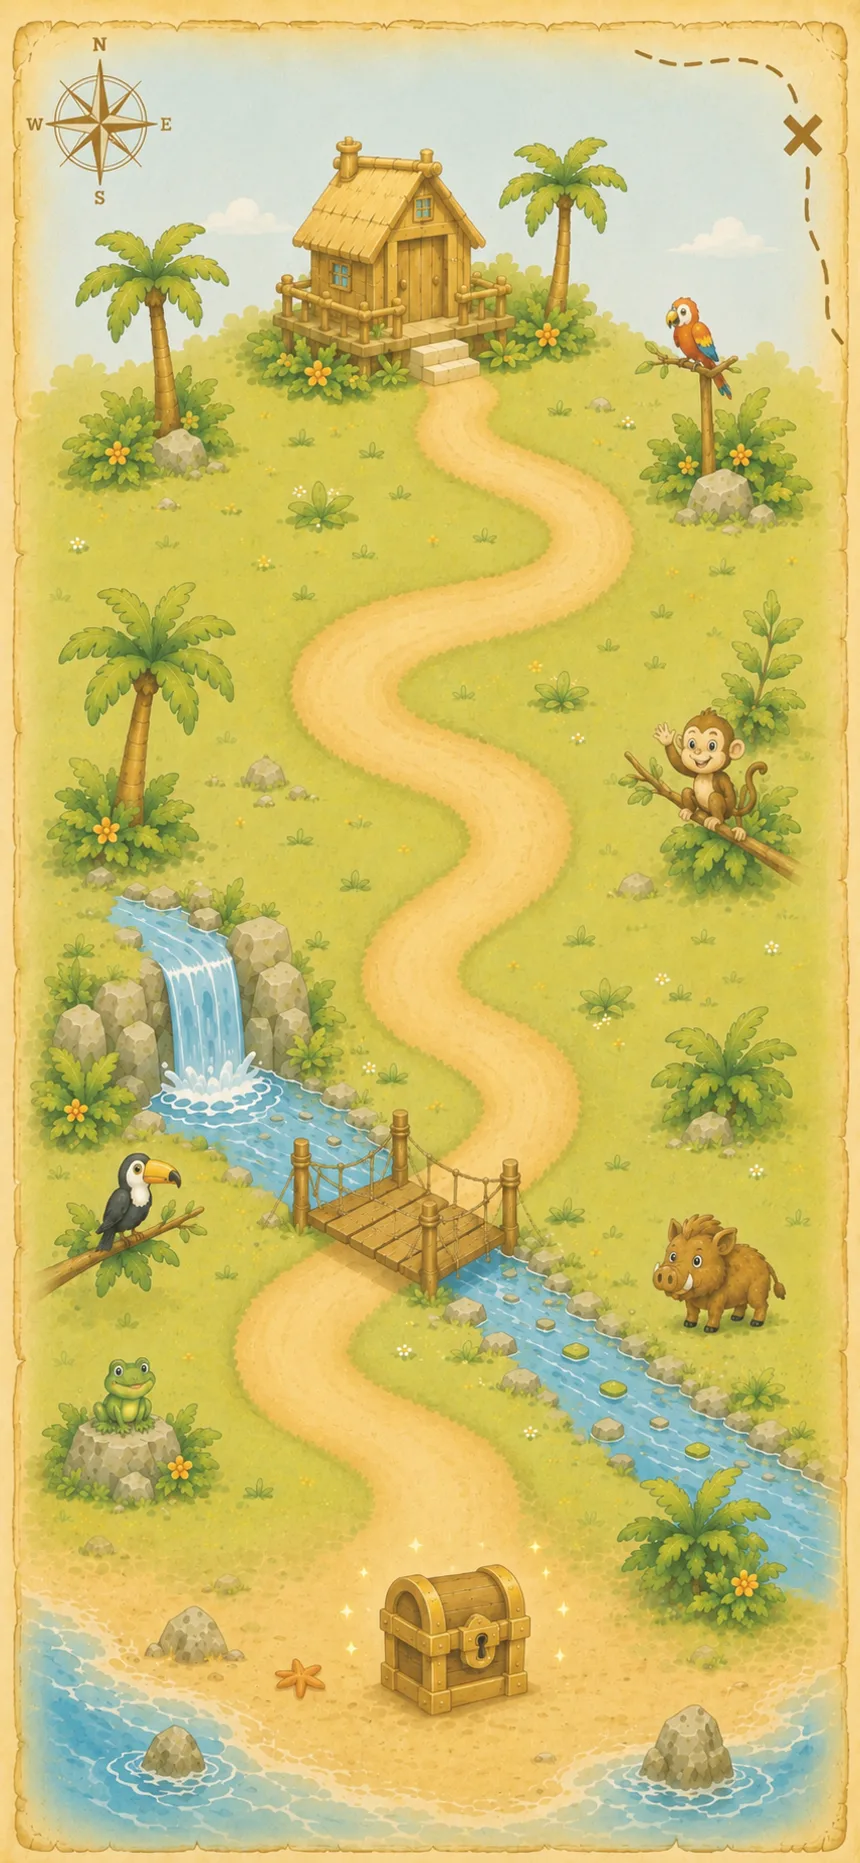
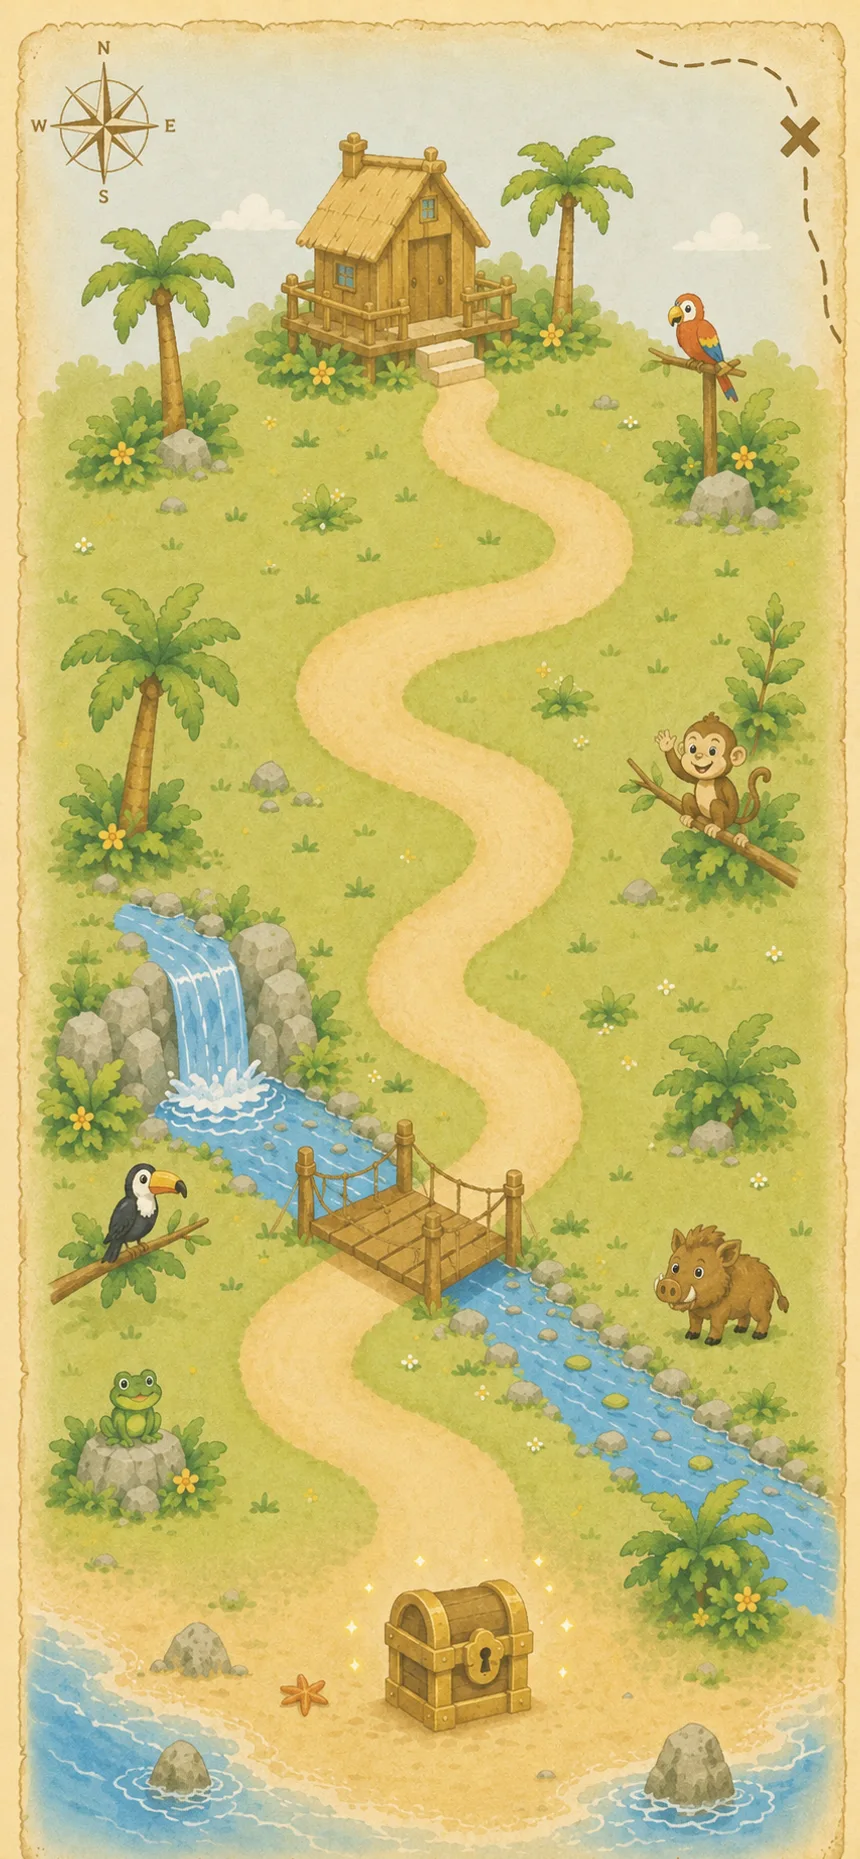
feat: 긴 지도 v9 수채화 원화 교체 (#100)
* fix: 모험지도 발자국 길 이탈 수정 — v5 원화에서 모래길 중심선 자동 추출로 경로 재보정

- 짧은/긴 지도 PATH를 원화 색 분류 스캔(모래색 픽셀 행별 추적)으로 재추출
- 짧은 지도 17점 → 46점, 긴 지도 21점 → 68점 (S커브·다리 통과 정밀 반영)
- 다리 구간은 목재 데크라 색 추출이 안 되어 수동 보간

Claude-Session: https://claude.ai/code/session_018maNuYqDfFyRSe9uKpZhPR

* feat: 우측 상단 원형 뱃지 버튼 3종 세로 배치 (엄마용-아이전환-아바타)

- 사용자 신규 원화 4종 탑재: 엄마용(엄마 얼굴)·아이전환(남매)·내아바타(초록 실루엣)·성장캐릭터(새싹)
- 엄마용·아이전환 뱃지 그림 v2로 교체
- 내 아바타/성장캐릭터 토글: 좌측 하단 나무 팻말 → 우측 상단 3번째 원형 뱃지(52px)로 이동
- 배경 꾸미기 장착 시 크림 캡슐 분기 제거 (뱃지가 헤더 영역이라 불필요)
- 원본 4장 art-src/ 보관 + README 갱신, vite build 검증

Claude-Session: https://claude.ai/code/session_018maNuYqDfFyRSe9uKpZhPR

* feat: 모험지도 학원 건물 v6 정글 세트 교체 (나무집·돌아치·텐트·티키오두막)

- 사용자 신규 원화 4종 탑재: trim + 높이 220 + 채도 1.08 + webp q86
- 텐트·티키는 원화의 흰 원을 투명 펀칭(중심 flood-fill) — 이모지 뒤배치 방식 유지
- 구멍 중심·지름 실측(투명 블롭 스캔)으로 cx/cy/d 갱신, k는 구멍 표시 크기 통일 기준 재계산
- 구 건물 webp 4종 삭제(미참조 확인), 원본은 art-src/ 보관 + README 갱신

Claude-Session: https://claude.ai/code/session_018maNuYqDfFyRSe9uKpZhPR

* polish: 모험 홈 무게중심 미세조정 6종 (사용자 픽셀 단위 가이드)

- 캐릭터·펫 컨테이너 20px 위로 (translateY 6→-14) — 하단 시트 눌림감 해소
- 헤드라인 문구 아래 20px·우측 7px (relative, 레이아웃 불변) + 나침반 이모지 간격 축소
- 우측 뱃지 3번째(아바타 토글) marginTop 2px — 간격 착시 보정
- '곧 부화!' 말풍선 알쪽으로 11px 하강 + 4px 우측 — 알과 한 덩어리로
- 시트 핸들바 아래 여백 14→7px — 날짜바 소폭 상승
- 모험 탭 초록 채움 8% 소프트 (#A5BB60→#ACC06D)

Claude-Session: https://claude.ai/code/session_018maNuYqDfFyRSe9uKpZhPR

* polish: 모험지도 라벨·발자국·진행도 개선 (사용자 가이드 8종)

- 이름표 2줄 통일: 1줄 학원명 / 2줄 🕘 시간(진하게) — 전 라벨 동일 규칙
[…]

diff --git a/src/components/AdventureMap.jsx b/src/components/AdventureMap.jsx
@@ -58,28 +58,28 @@ const mkPointAt = (PATH, ASPECT) => {
 const MAP_LONG = {
   bg: "assets/adventure-map.webp",
   ar: "853 / 1844",
-  chest: [52, 88],
-  cdy: 6,           // 진행도 칩(🔒 n/N)을 상자 아래로 내리는 오프셋 (지도 높이 % — 상자 안 가리게)
+  chest: [52.5, 89],
+  cdy: 5.5,         // 진행도 칩(🔒 n/N)을 상자 아래로 내리는 오프셋 (지도 높이 % — 상자 안 가리게)
   yr: 1844 / 853,
   bw: 26, fs: 24,   // 건물 표시 폭(%)·이모지 크기 (사용자 조정: 소폭 축소)
   fpk: 64,          // 발자국 개수 (경로 등간격)
-  // 학원 건물 고정 배치 좌표 (길 '옆' 잔디, 좌우 번갈아)
+  // 학원 건물 고정 배치 좌표 (길 '옆' 잔디) — v9 지형: ①앵무새 우상 ②원숭이 우측 ③투칸 좌측 ④멧돼지 우측
   spots: {
-    3: [[78,30],[71,45],[33,76]],
-    4: [[78,30],[71,45],[20,63],[33,76]],
+    3: [[80,30],[71,45],[20,63]],
+    4: [[80,30],[71,45],[20,63],[80,67]],
   },
-  // v8 수채화 원화 모래길 중심선 자동 추출(색 분류 스캔) 좌표 — 다리 구간은 목재라 수동 보간
+  // v9 수채화 원화 모래길 중심선 자동 추출(색 분류 스캔) 좌표 — 다리 구간은 목재라 수동 보간
   pointAt: mkPointAt([
-    [50.5,19.5],[52,20.9],[54,21.8],[53,22.8],[50.5,23.6],[50.5,24.4],[52.5,25.2],[55.5,26],
-    [58.5,26.7],[61.5,27.4],[64,28.2],[65.5,29.2],[65.5,30.2],[63,31],[59,31.8],[55,32.5],
-    [51.5,33.2],[49.5,34],[47.5,34.9],[45.5,35.8],[44.5,36.5],[41.5,37.2],[38.5,38],[37.8,38.9],
-    [39.5,39.8],[41.5,40.5],[44,41.2],[46.5,41.8],[49,42.4],[52,43.1],[54.5,43.7],[56.5,44.4],
-    [59,45],[61.5,45.6],[63.2,46.3],[62.5,47.1],[60.5,47.9],[58.5,48.6],[56.5,49.3],[54.5,50],
-    [52.5,50.7],[51,51.5],[49.5,52.3],[49.5,53.2],[50,54.1],[50.5,55],[51.5,55.9],[53.5,56.6],
-    [56,57.3],[58.5,58],[60.5,58.8],[62,59.6],[63,60.5],[62.5,61.5],[61,62.3],[58,63.2],
-    [54,64.2],[50,65.2],[46,66.2],[42,67],[39,67.8],[37.5,68.8],[36.7,69.8],[36.5,70.8],
-    [37,71.8],[38.5,72.8],[40.5,73.7],[43,74.6],[45.5,75.5],[48,76.3],[50.5,77.1],[52,77.9],
-    [53,78.8],[54,79.7],[54.8,80.7],[55.2,81.7],[55,82.7],[54.5,83.7],[53.5,84.6],
+    [52,19.8],[53.5,21],[54,22],[53,23],[52.9,24.1],[54,25],[56.5,25.8],[59,26.5],
+    [61.5,27.2],[64.5,28],[66.8,28.8],[68.5,29.7],[68.6,30.8],[67.5,31.8],[65,32.7],[61,33.5],
+    [57,34.2],[53,34.9],[49,35.7],[45.5,36.4],[42.5,37.1],[41,38],[41.3,39],[43,39.9],
+    [45.5,40.7],[48.5,41.4],[51.5,42.1],[54.5,42.9],[57.5,43.7],[59.5,44.5],[60.8,45.4],[60.7,46.4],
+    [59.8,47.4],[58,48.3],[56,49.2],[53.5,50.1],[51.5,51],[49.8,51.9],[48.5,52.9],[48.3,54],
+    [49.5,54.9],[51.5,55.8],[53.5,56.6],[56,57.4],[58.5,58.3],[60.5,59.2],[61.8,60.1],[62,61.1],
+    [61,62.1],[59,63],[56,64],[52.5,65],[49,66],[45.5,67],[42,68],[39.5,68.9],
+    [38,69.9],[37,70.9],[35.8,71.9],[34.8,72.9],[34.4,74],[35.2,75],[36.8,76],[39,76.9],
+    [41.5,77.8],[44,78.6],[46.5,79.4],[48.8,80.2],[50.5,81.1],[51.8,82.1],[52.3,83.2],[52.3,84.4],
+    [52.2,85.6],
   ], 1844 / 853),
 };
 // 짧은 지도 v2 (972×1619, 3:5 양피지) — 학원 0~2곳용, 무대 배경과 비슷한 체감 높이

diff --git a/art-src/README.md b/art-src/README.md
@@ -37,7 +37,8 @@ ChatGPT로 생성한 **가공 전 원본 이미지**를 보관한다. 배포(dis
 | map-bld-tent.png | 지도 학원 건물 v6-3 (수채화풍, 구) | (교체됨) |
 | map-bld-tikihut.png | 지도 학원 건물 v6-4 (수채화풍, 구) | (교체됨) |
 | adventure-map-v6-src.png | 긴 지도 v7 크리스프 카툰 (구) | (교체됨) |
-| adventure-map-v8-src.png | 긴 지도 v8 수채화 (852×1846, PATH 재추출) | adventure-map.webp |
+| adventure-map-v8-src.png | 긴 지도 v8 수채화 (구) | (교체됨) |
+| adventure-map-v9-src.png | 긴 지도 v9 수채화 (853×1844, 짧은 v8과 한 세트, PATH 재추출) | adventure-map.webp |
 | adventure-map-short-v6-src.png | 짧은 지도 v7 크리스프 카툰 (구) | (교체됨) |
 | adventure-map-short-v8-src.png | 짧은 지도 v8 수채화 (951×1654, 긴 지도 v8과 한 세트, PATH 재추출) | adventure-map-short.webp |
 | map-bld-treehouse-v2.png | 지도 학원 건물 v7-1 (나무 위의 집, 흰 원→투명 펀칭) | map-bld-treehouse.webp |
